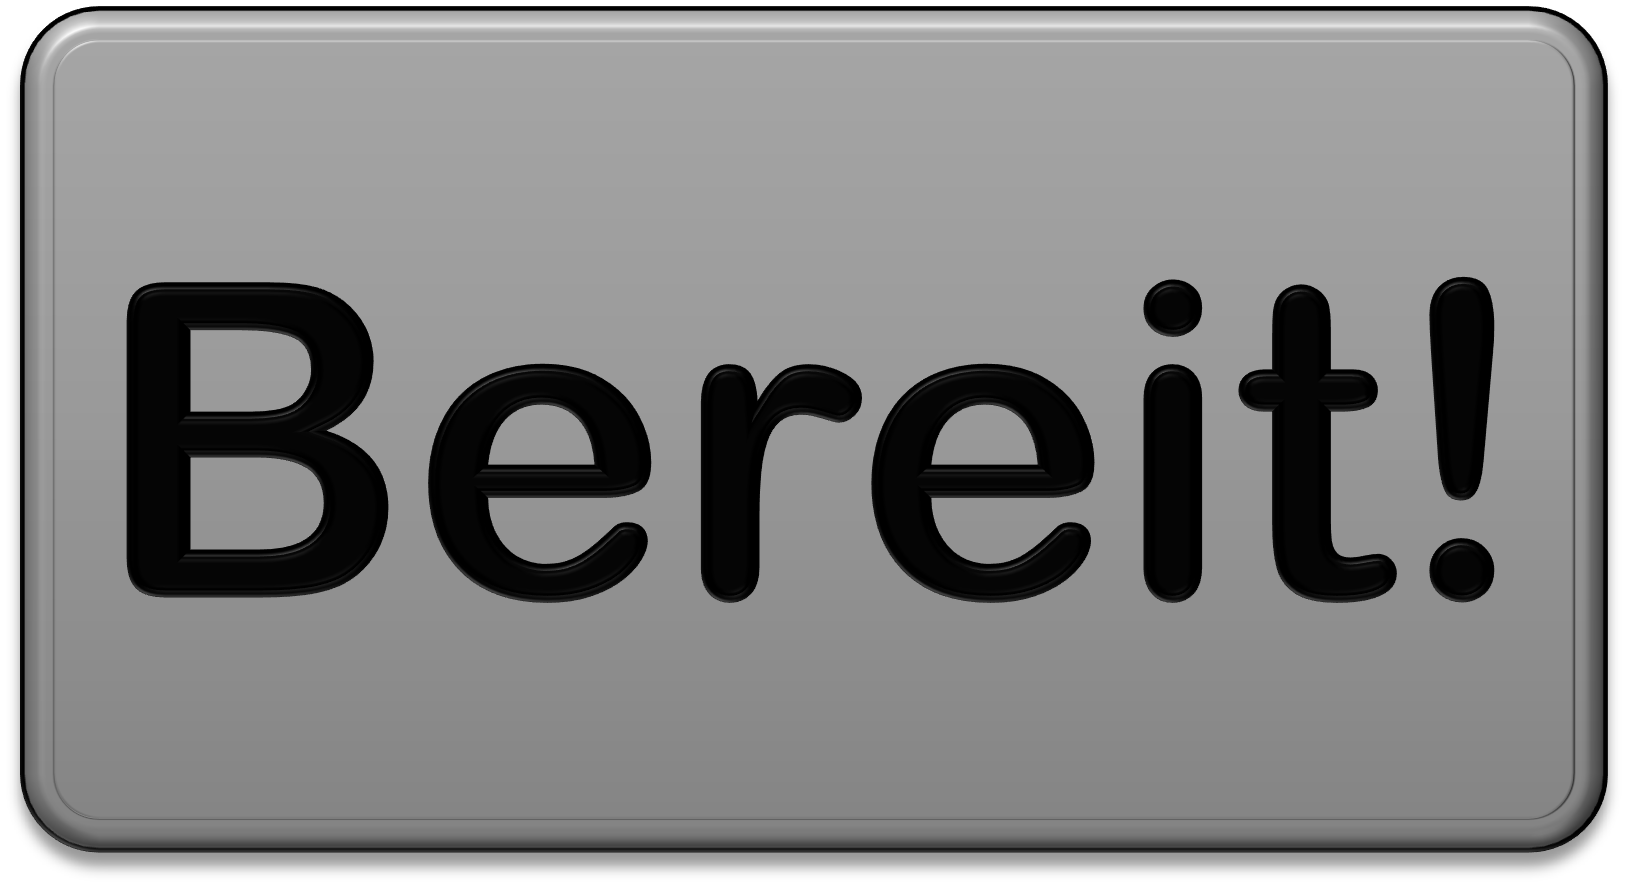
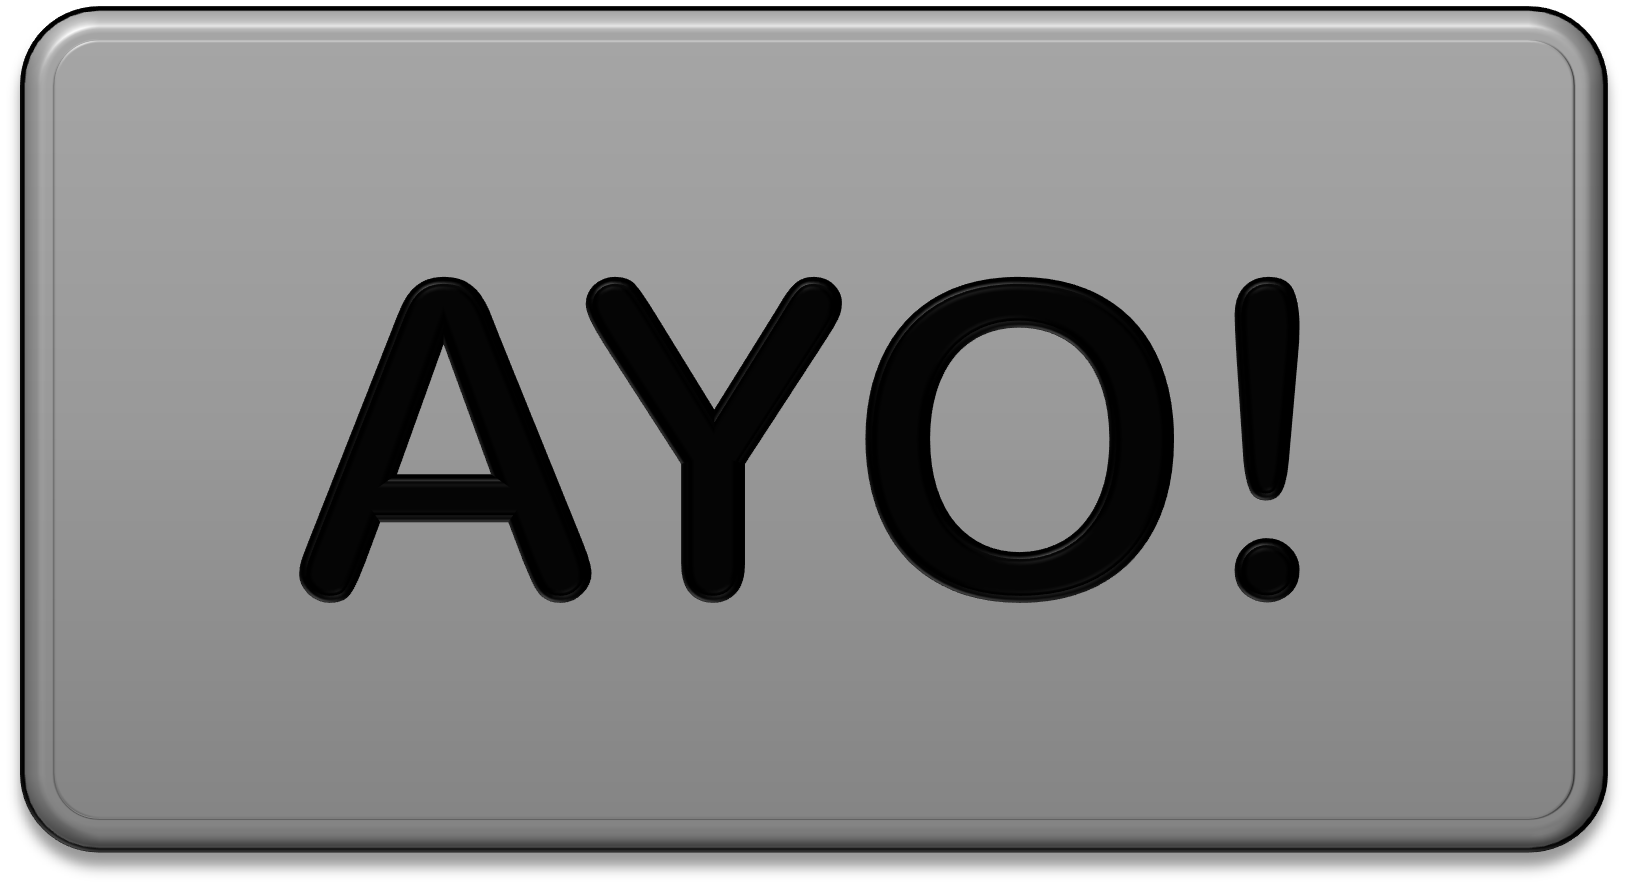
improved dialogues

Changed region(s): [[0.0614, 0.3044, 0.9214, 0.7001], [0.5835, 0.6697, 0.645, 0.7001]]

diff --git a/src/main.js b/src/main.js
@@ -125,7 +125,7 @@ import { sound } from "@pixi/sound";
     while (generatorNum < numberOfLifes) {
       const heart = new Sprite(Assets.get("herz"));
       heart.anchor.set(0.5);
-      heart.scale.set(0.025);
+      heart.scale.set(0.21);
       heart.label = "heart";
       heart.y = app.screen.height / 8;
       heart.x = app.screen.width / 4 + heartPosition;
@@ -198,6 +198,7 @@ import { sound } from "@pixi/sound";
         fontFamily: "Pixelletters",
         fontSize: 10,
         fill: "black",
+        resolution: 2,
       },
     });
     text1.anchor.set(0.5);
@@ -243,7 +244,7 @@ import { sound } from "@pixi/sound";
     );
     await slideTo(
       curr_michi,
-      app.screen.width - app.screen.width / 4,
+      app.screen.width / 4,
       app.screen.width - app.screen.height / 4,
       10
     );
@@ -252,12 +253,20 @@ import { sound } from "@pixi/sound";
     await slideTo(el, app.screen.width - 200, 0 - 200);
   }
 
-  function slideTo(sprite, targetX, targetY, speed = 5) {
+  function slideTo(sprite, targetX, targetY, speed = 10) {
     return new Promise((resolve) => {
       app.ticker.add(function move() {
         const dx = targetX - sprite.x;
         const dy = targetY - sprite.y;
         const dist = Math.sqrt(dx * dx + dy * dy);
+
+        if (dist < 1) {
+          sprite.x = targetX;
+          sprite.y = targetY;
+          app.ticker.remove(move);
+          resolve();
+          return;
+        }
 
         // Normalize direction and move toward target
         sprite.x += (dx / dist) * speed;
@@ -303,6 +312,8 @@ import { sound } from "@pixi/sound";
     return new Promise(async (resolve) => {
       if (curr_enemy != null) {
         await new Promise((resolve) => {
+          app.stage.removeChild(curr_q);
+          showText({ text: "Neeeiiin", height: 1.95 });
           deathAnimation(curr_enemy);
           setTimeout(() => {
             resolve();
@@ -310,7 +321,12 @@ import { sound } from "@pixi/sound";
         });
       }
       await new Promise((resolve) => {
-        showText({ text: "Gratuliere, du darfst weiterleben", steady: true });
+        app.stage.removeChild(curr_sb);
+        showText({
+          text: "(Du hast die Frage richtig beantwortet)",
+          steady: true,
+          height: 1.95,
+        });
         setTimeout(() => {
           resolve();
         }, 1500);
@@ -355,11 +371,18 @@ import { sound } from "@pixi/sound";
 
     numberOfLifes = 3;
     return await new Promise(async (resolve) => {
-      await new Promise((resolve) => {
-        showText({
-          text: "Das war dein letztes Leben!",
+      await new Promise(async (resolve) => {
+        await showText({
+          text: "Das war dein letzter\nUrlaubstag!",
           height: 2,
           color: "white",
+          fontSize: 15,
+        });
+        showText({
+          text: "(in Europa)",
+          height: 2,
+          color: "white",
+          fontSize: 15,
         });
         setTimeout(() => {
           resolve();
@@ -373,7 +396,23 @@ import { sound } from "@pixi/sound";
   }
 
   async function looseFunction(an1, an2, an3, resolve) {
-    showText({ text: "Schade! Du verlierst ein Leben!" });
+    app.stage.removeChild(curr_q);
+    await showText({
+      text: "HAHAHAHA",
+      height: 1.95,
+    });
+    await showText({
+      text: "DAS WAR DIE FALSCHE ANTWORT",
+      height: 1.95,
+    });
+    await showText({
+      text: "Das kostet dich einen\ndeiner Urlaubstage!",
+      height: 1.95,
+    });
+    await showText({
+      text: "(in Europa)",
+      height: 1.95,
+    });
     numberOfLifes--;
     console.log(numberOfLifes);
     updateLives();
@@ -384,7 +423,12 @@ import { sound } from "@pixi/sound";
       return resolve("gameover");
     } /*else {
       await waitForAnswer(an1, an2, an3, resolve);
-    }*/
+      }*/
+    await showText({
+      text: "Zurück zur Frage:",
+      height: 1.95,
+    });
+    app.stage.addChild(curr_q);
   }
 
   async function waitForAnswer(an1, an2, an3, stay_in_arena, resolve) {
@@ -408,16 +452,28 @@ import { sound } from "@pixi/sound";
     answerWrong2,
     stay_in_arena
   ) {
-    const heights = [150, 75, 0];
-
+    const heights = [
+      { h: 150, prefix: "C" },
+      { h: 75, prefix: "B" },
+      { h: 0, prefix: "A" },
+    ];
     // Array zufällig mischen (Fisher–Yates)
     for (let i = heights.length - 1; i > 0; i--) {
       const j = Math.floor(Math.random() * (i + 1));
       [heights[i], heights[j]] = [heights[j], heights[i]];
     }
-    const text10 = createText(answerCorrect, heights[0]);
-    const text20 = createText(answerWrong1, heights[1]);
-    const text30 = createText(answerWrong2, heights[2]);
+    const text10 = createText(
+      `${heights[0].prefix}: ${answerCorrect}`,
+      heights[0].h
+    );
+    const text20 = createText(
+      `${heights[1].prefix}: ${answerWrong1}`,
+      heights[1].h
+    );
+    const text30 = createText(
+      `${heights[2].prefix}: ${answerWrong1}`,
+      heights[2].h
+    );
     curr_o1 = text10;
     curr_o2 = text20;
     curr_o3 = text30;
@@ -440,7 +496,7 @@ import { sound } from "@pixi/sound";
           fontFamily: font,
           fontSize: fontSize,
           fill: color,
-          resolution: 1,
+          resolution: 2,
         },
       });
       text1.anchor.set(0.5);
@@ -463,6 +519,7 @@ import { sound } from "@pixi/sound";
     enemy_str,
     title,
     question_map_list,
+    introwords = [],
     enemy_position = 4,
     enemy_scale = 0.1,
   }) {
@@ -498,10 +555,14 @@ import { sound } from "@pixi/sound";
     for (const el of question_map_list) {
       console.log(el);
       await slideIn(sp_b, "right", 2);
+      for (const el2 of introwords) {
+        await showText({ text: el2, height: 1.95 });
+      }
       curr_q = createGenericText(
         el.question,
         app.screen.width / 2,
-        app.screen.height / 1.95
+        app.screen.height / 1.95,
+        false
       );
 
       if (question_map_list.length == counter) {
@@ -537,6 +598,17 @@ import { sound } from "@pixi/sound";
     "Heute musst du dich noch\neinmal...",
     "... vier deiner erbittersten\nGegener stellen.",
     "Am Ende wartet\nein Preis auf dich",
+    "Zu Beginn des Spiels",
+    "erhältst du drei\nUrlaubstage",
+    "(in Europa)",
+    "Immer wenn du\neinen Fehler machst",
+    "kriegst du\neinen Urlaubstag...",
+    "(in Europa)",
+    "...abgezogen.",
+    "Wenn du keine Urlaubstage",
+    "(in Europa)",
+    "mehr hast...",
+    "...musst du wieder\nvon vorne anfangen",
     text5,
   ];
 
@@ -599,15 +671,19 @@ import { sound } from "@pixi/sound";
     sound.play("background", { loop: true, volume: 0.2 });
     createLives();
 
+    cur_challenge = 1;
+
     await executeFight({
       enemy_str: "geiger",
       title: "Geigenunterricht",
+      introwords: ["Hehehehehehe", "hehehe", "hehe", "he"],
       question_map_list: [geigenfrage1],
       enemy_scale: 0.15,
     });
     await executeFight({
       enemy_str: "deutscher",
       title: "Deutsch lernen",
+      introwords: ["GRRAAAHHH!!!"],
       question_map_list: [deutschfrage1],
       enemy_position: 3,
     });
@@ -626,8 +702,10 @@ import { sound } from "@pixi/sound";
       "Hey, pssst Michael",
       "Hallo hier oben!",
       "Klasse wie gut du vorankommst!",
-      "Zur Feier des Tages\nspendiere ich dir ...",
-      "... ein Extra Leben!",
+      "Zur Feier des Tages",
+      "spendiere ich dir einen...",
+      "... Extra Urlaubstag!",
+      "(in Europa)",
       "Viel Erfolg weiterhin",
       "Ach ja",
       "Schau gern mal wieder",
